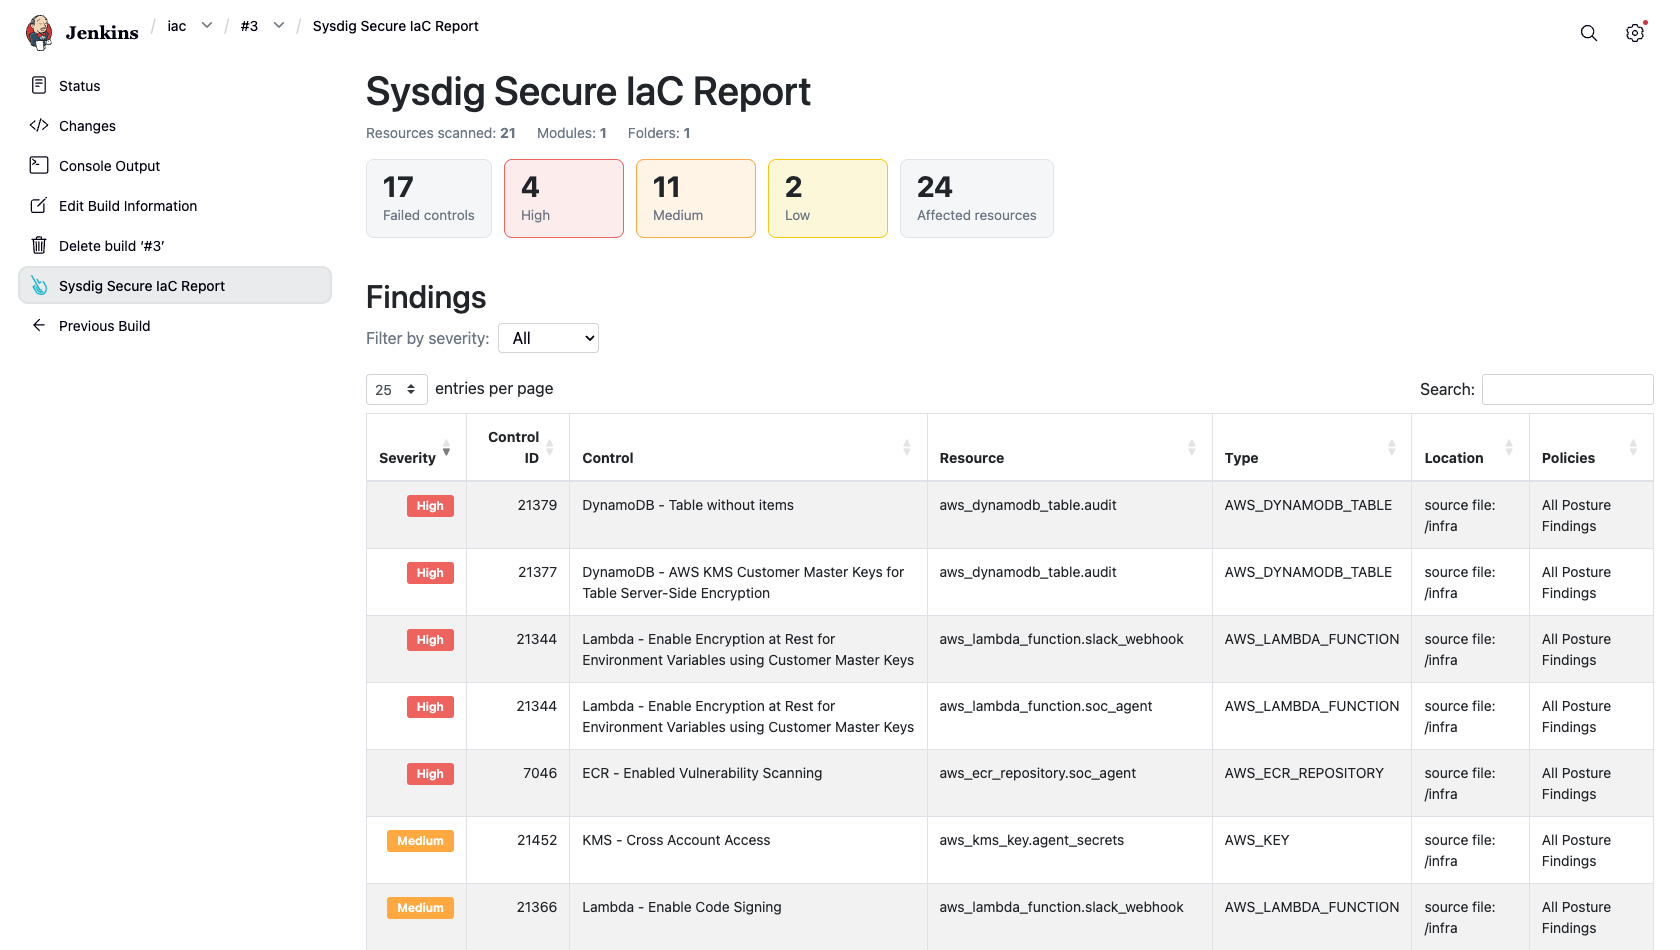
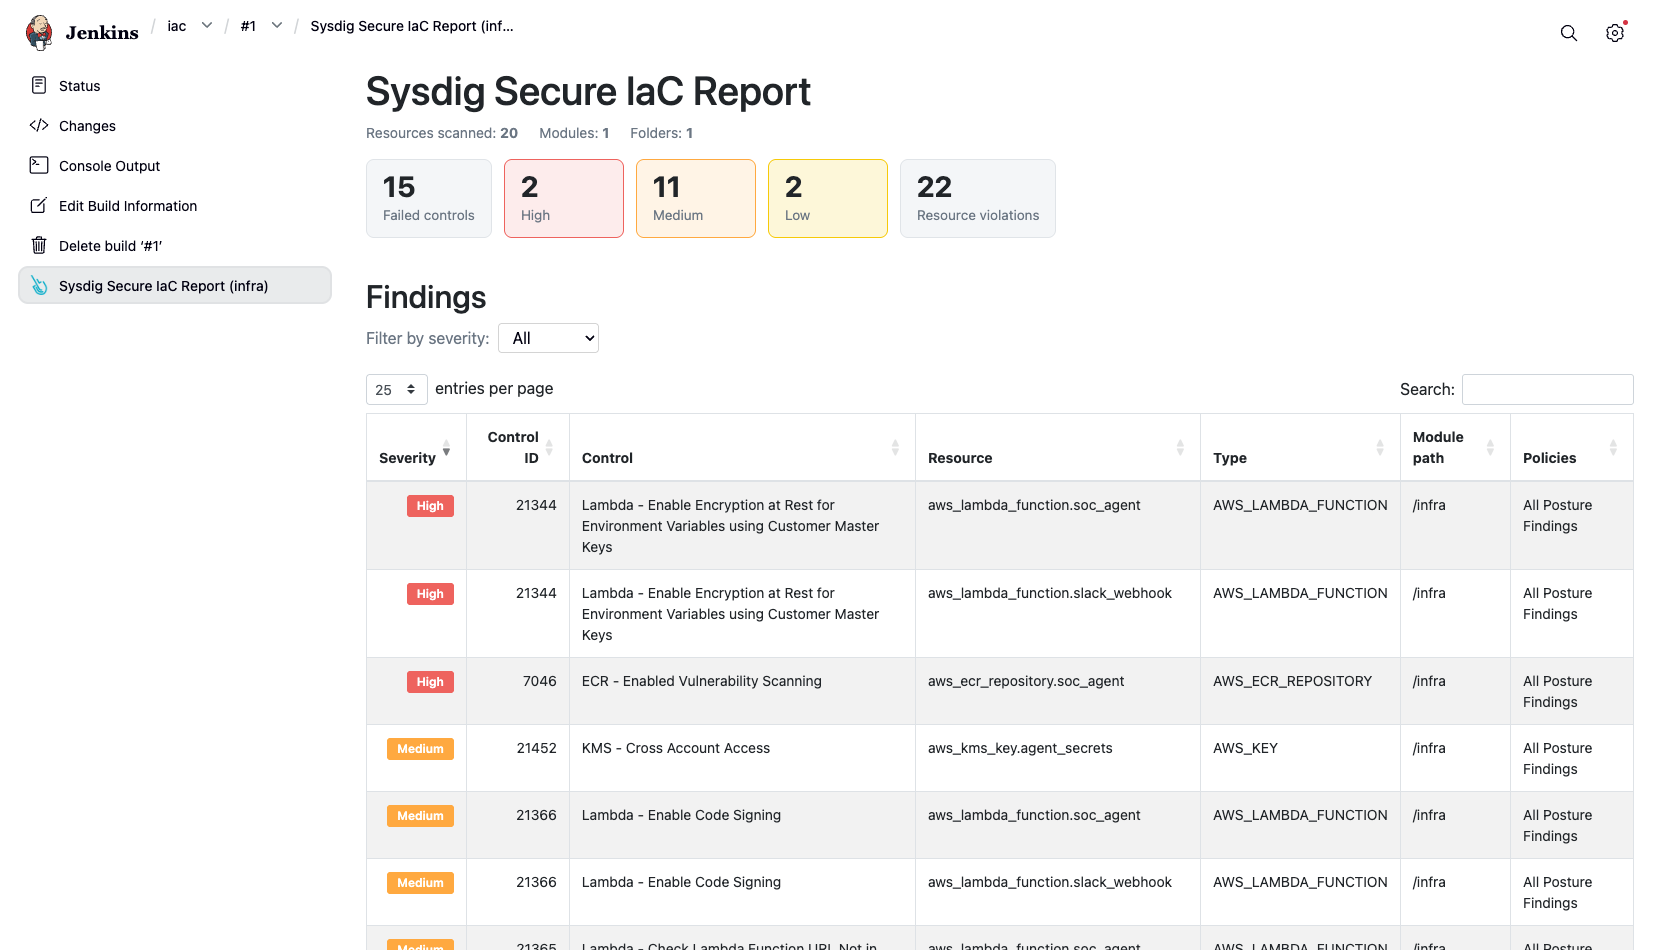
fix(iac): make the per-scan report numbering and cleanup hold under parallel steps
Picking the ordinal from the build's action list and adding the action were two
steps, and the action list gives no atomicity, so parallel pipeline branches
could both claim the same url name: 16 concurrent attaches produced 13 distinct
urls, i.e. reports that the build page could not reach, each advertising a
different scanned path. Both steps now happen under one lock, and the ordinal
comes from the highest one already attached rather than the list size.

Deleting the report file ran in a finally around the scan, so an unlucky delete
(dropped channel, read-only workspace) skipped the exit-code switch and turned a
clean scan into a failed build, or replaced the scan's own exception. Cleanup is
now best-effort and covers the whole step, including the credentials error that
threw between creating the file and launching the scanner and leaked one report
per build into a reused workspace.

The report also moves to the workspace's @tmp sibling so it is never part of the
tree being scanned and no scratch file is left in the checkout. Scanner 1.27.2
does ignore stray .json files while walking, verified against the real CLI, so
this is about keeping the workspace clean, not about fixing scan results.

README: the module path is relative to the scanned path (a resource at the top of
it reports scan root), which the previous wording got wrong, and the violations
tile is unrelated to the number of resources scanned. Screenshot regenerated for
the renamed tile and column.

diff --git a/src/test/java/com/sysdig/jenkins/plugins/sysdig/infrastructure/jenkins/iac/ui/IaCActionTest.java b/src/test/java/com/sysdig/jenkins/plugins/sysdig/infrastructure/jenkins/iac/ui/IaCActionTest.java
@@ -7,6 +7,9 @@ import com.sysdig.jenkins.plugins.sysdig.domain.iac.scanresult.Resource;
 import hudson.model.FreeStyleBuild;
 import hudson.model.FreeStyleProject;
 import hudson.util.XStream2;
+import java.util.concurrent.CountDownLatch;
+import java.util.concurrent.Executors;
+import java.util.concurrent.TimeUnit;
 import org.htmlunit.Page;
 import org.junit.jupiter.api.BeforeEach;
 import org.junit.jupiter.api.Test;
@@ -80,7 +83,7 @@ class IaCActionTest {
     void actionPageRendersTables() throws Exception {
         FreeStyleProject project = jenkins.createFreeStyleProject();
         FreeStyleBuild build = jenkins.buildAndAssertSuccess(project);
-        build.addAction(IaCAction.createFor(build, sampleJson(), "infra"));
+        IaCAction.attachTo(build, sampleJson(), "infra");
         build.save();
 
         JenkinsRule.WebClient wc = jenkins.createWebClient();
@@ -103,7 +106,7 @@ class IaCActionTest {
     void summaryTileAppearsOnBuildPage() throws Exception {
         FreeStyleProject project = jenkins.createFreeStyleProject();
         FreeStyleBuild build = jenkins.buildAndAssertSuccess(project);
-        build.addAction(IaCAction.createFor(build, sampleJson(), "infra"));
+        IaCAction.attachTo(build, sampleJson(), "infra");
         build.save();
 
         JenkinsRule.WebClient wc = jenkins.createWebClient();
@@ -125,8 +128,8 @@ class IaCActionTest {
         FreeStyleProject project = jenkins.createFreeStyleProject();
         FreeStyleBuild build = jenkins.buildAndAssertSuccess(project);
         // Same path on purpose: the url must stay unique even when two steps scan the same directory.
-        build.addAction(IaCAction.createFor(build, jsonWithFindingNamed("FIRST-SCAN-CONTROL"), "infra"));
-        build.addAction(IaCAction.createFor(build, jsonWithFindingNamed("SECOND-SCAN-CONTROL"), "infra"));
+        IaCAction.attachTo(build, jsonWithFindingNamed("FIRST-SCAN-CONTROL"), "infra");
+        IaCAction.attachTo(build, jsonWithFindingNamed("SECOND-SCAN-CONTROL"), "infra");
         build.save();
 
         var actions = build.getActions(IaCAction.class);
@@ -144,6 +147,46 @@ class IaCActionTest {
         assertTrue(first.contains("FIRST-SCAN-CONTROL"), "first report reachable");
         assertFalse(first.contains("SECOND-SCAN-CONTROL"), "first report is not the second one");
         assertTrue(second.contains("SECOND-SCAN-CONTROL"), "second report reachable");
+    }
+
+    /**
+     * Parallel pipeline branches attach their reports from different threads, and the build's action
+     * list gives no atomicity, so the ordinal has to be picked and used under a lock.
+     */
+    @Test
+    void concurrentAttachesStillGetDistinctUrls() throws Exception {
+        FreeStyleProject project = jenkins.createFreeStyleProject();
+        FreeStyleBuild build = jenkins.buildAndAssertSuccess(project);
+
+        int branches = 16;
+        var start = new CountDownLatch(1);
+        var done = new CountDownLatch(branches);
+        var pool = Executors.newFixedThreadPool(branches);
+        try {
+            for (int i = 0; i < branches; i++) {
+                String path = "infra-" + i;
+                pool.submit(() -> {
+                    try {
+                        start.await();
+                        IaCAction.attachTo(build, jsonWithFindingNamed("CONTROL"), path);
+                    } catch (InterruptedException e) {
+                        Thread.currentThread().interrupt();
+                    } finally {
+                        done.countDown();
+                    }
+                });
+            }
+            start.countDown();
+            assertTrue(done.await(30, TimeUnit.SECONDS), "all branches attached");
+        } finally {
+            pool.shutdownNow();
+        }
+
+        var urls = build.getActions(IaCAction.class).stream()
+                .map(IaCAction::getUrlName)
+                .collect(java.util.stream.Collectors.toSet());
+        assertEquals(branches, build.getActions(IaCAction.class).size());
+        assertEquals(branches, urls.size(), "every attached report needs its own url: " + urls);
     }
 
     @Test
@@ -190,7 +233,7 @@ class IaCActionTest {
     void findingsTableShowsLocationWithoutTheScannerPrefix() throws Exception {
         FreeStyleProject project = jenkins.createFreeStyleProject();
         FreeStyleBuild build = jenkins.buildAndAssertSuccess(project);
-        build.addAction(IaCAction.createFor(build, sampleJson(), "infra"));
+        IaCAction.attachTo(build, sampleJson(), "infra");
         build.save();
 
         JenkinsRule.WebClient wc = jenkins.createWebClient();

diff --git a/src/main/java/com/sysdig/jenkins/plugins/sysdig/infrastructure/jenkins/iac/entrypoint/IaCScanningBuilder.java b/src/main/java/com/sysdig/jenkins/plugins/sysdig/infrastructure/jenkins/iac/entrypoint/IaCScanningBuilder.java
@@ -36,6 +36,7 @@ import hudson.model.Result;
 import hudson.model.Run;
 import hudson.model.TaskListener;
 import hudson.security.ACL;
+import hudson.slaves.WorkspaceList;
 import hudson.tasks.BuildStepDescriptor;
 import hudson.tasks.Builder;
 import hudson.util.FormValidation;
@@ -176,21 +177,17 @@ public class IaCScanningBuilder extends Builder implements SimpleBuildStep {
         }
 
         logger.logInfo("Starting scan");
+        FilePath scanResultOutputFile = null;
         try {
             String exec = filePath.getRemote();
-            FilePath scanResultOutputFile = createScanResultOutputFile(workspace);
+            scanResultOutputFile = createScanResultOutputFile(workspace);
             SysdigIaCScanningProcessBuilder processBuilder = buildCommand(runContext, exec, scanResultOutputFile);
             logger.logDebug("Command to execute: " + String.join(" ", processBuilder.toCommandLineArguments()));
 
-            int exitCode;
-            try {
-                exitCode = processBuilder.launchAndWait(runContext.getLauncher());
-                logger.logInfo(String.format("Process finished with status %d", exitCode));
+            int exitCode = processBuilder.launchAndWait(runContext.getLauncher());
+            logger.logInfo(String.format("Process finished with status %d", exitCode));
 
-                reportAndAttachScanResult(run, logger, scanResultOutputFile);
-            } finally {
-                scanResultOutputFile.delete();
-            }
+            reportAndAttachScanResult(run, logger, scanResultOutputFile);
 
             switch (exitCode) {
                 case 0:
@@ -216,17 +213,49 @@ public class IaCScanningBuilder extends Builder implements SimpleBuildStep {
         } catch (Exception e) {
             logger.logError(String.format("Failed processing output: %s", e.getMessage()), e);
             run.setResult(Result.FAILURE);
+        } finally {
+            deleteQuietly(scanResultOutputFile, logger);
         }
         logger.logInfo("Process completed");
+    }
+
+    /**
+     * Drops the scan's report file once it has been read. Deleting is cleanup, never a reason to fail a
+     * build, and it must not shadow whatever the scan itself reported: the exit code stays the source
+     * of truth for pass/fail.
+     */
+    private static void deleteQuietly(FilePath scanResultOutputFile, SysdigLogger logger) {
+        if (scanResultOutputFile == null) {
+            return;
+        }
+        try {
+            scanResultOutputFile.delete();
+        } catch (InterruptedException e) {
+            Thread.currentThread().interrupt();
+        } catch (Exception e) {
+            logger.logWarn(String.format(
+                    "Could not delete the IaC scan report file %s: %s",
+                    scanResultOutputFile.getRemote(), e.getMessage()));
+        }
     }
 
     /**
      * Report file of a single scan. Every step gets its own file: the workspace is shared by all the
      * steps of a build, so a fixed name would let a scan that produced no report of its own read (and
      * attach) the report left behind by a previous scan, and would make parallel steps race for it.
+     *
+     * <p>It lives in the workspace's {@code @tmp} sibling directory rather than in the workspace itself,
+     * so the report of this run (or of a parallel one) is never part of the tree being scanned and a
+     * build leaves no scratch file behind in the checkout. Scanner 1.27.2 ignores stray {@code .json}
+     * files while walking, so this keeps the workspace clean rather than fixing a scan result.
      */
     static FilePath createScanResultOutputFile(FilePath workspace) throws IOException, InterruptedException {
-        return workspace.createTempFile("sysdig-iac-scan-result", ".json");
+        FilePath tempDir = WorkspaceList.tempDir(workspace);
+        if (tempDir == null) { // no parent to hang the sibling directory off, e.g. a filesystem root
+            tempDir = workspace;
+        }
+        tempDir.mkdirs();
+        return tempDir.createTempFile("sysdig-iac-scan-result", ".json");
     }
 
     /**
@@ -246,7 +275,7 @@ public class IaCScanningBuilder extends Builder implements SimpleBuildStep {
             if (scanResult.isEmpty()) return;
 
             logScanResultSummary(logger, scanResult.get());
-            run.addAction(IaCAction.createFor(run, json, path));
+            IaCAction.attachTo(run, json, path);
         } catch (Exception e) {
             logger.logWarn("Could not parse IaC scan result report: " + e.getMessage());
         }

diff --git a/src/test/java/com/sysdig/jenkins/plugins/sysdig/e2e/IaCScanE2EFreestyleTests.java b/src/test/java/com/sysdig/jenkins/plugins/sysdig/e2e/IaCScanE2EFreestyleTests.java
@@ -1,6 +1,13 @@
 package com.sysdig.jenkins.plugins.sysdig.e2e;
 
+import static org.junit.jupiter.api.Assertions.assertEquals;
+import static org.junit.jupiter.api.Assertions.assertNotNull;
+
+import hudson.FilePath;
 import hudson.model.Result;
+import hudson.slaves.WorkspaceList;
+import java.util.Arrays;
+import java.util.List;
 import org.junit.jupiter.api.BeforeEach;
 import org.junit.jupiter.api.Test;
 import org.jvnet.hudson.test.JenkinsRule;
@@ -63,6 +70,48 @@ class IaCScanE2EFreestyleTests {
         jenkins.assertLogContains("--recursive --severity-threshold=high", build);
         jenkins.assertLogContains("Process finished with status 3", build);
         jenkins.assertLogContains("(status 401):", build);
+    }
+
+    /**
+     * The report file is created before the credentials are resolved, so the step must clean it up on
+     * every exit path. Random names make a leak accumulate across builds instead of being overwritten,
+     * and the report must never land inside the scanned workspace.
+     */
+    @Test
+    void testTheReportFileLeavesNothingBehindWhenCredentialsAreMissing() throws Exception {
+        var project = helpers.createFreestyleProjectWithIaCScanBuilder().build();
+
+        jenkins.buildAndAssertStatus(Result.FAILURE, project);
+
+        var workspace = project.getSomeWorkspace();
+        assertNotNull(workspace);
+        assertEquals(List.of(), reportFilesIn(workspace), "workspace");
+        assertEquals(List.of(), reportFilesIn(WorkspaceList.tempDir(workspace)), "workspace @tmp");
+    }
+
+    @Test
+    void testTheReportFileIsWrittenOutsideTheScannedWorkspaceAndDeleted() throws Exception {
+        var project = helpers.createFreestyleProjectWithIaCScanBuilder()
+                .withConfig(b -> b.setEngineCredentialsId("sysdig-secure"))
+                .build();
+
+        var build = jenkins.buildAndAssertStatus(Result.FAILURE, project);
+
+        var workspace = project.getSomeWorkspace();
+        assertNotNull(workspace);
+        jenkins.assertLogContains(
+                "--output-json=" + WorkspaceList.tempDir(workspace).getRemote(), build);
+        assertEquals(List.of(), reportFilesIn(workspace), "workspace");
+        assertEquals(List.of(), reportFilesIn(WorkspaceList.tempDir(workspace)), "workspace @tmp");
+    }
+
+    private static List<String> reportFilesIn(FilePath directory) throws Exception {
+        if (directory == null || !directory.exists()) {
+            return List.of();
+        }
+        return Arrays.stream(directory.list("sysdig-iac-scan-result*"))
+                .map(FilePath::getName)
+                .toList();
     }
 
     @Test

diff --git a/src/main/java/com/sysdig/jenkins/plugins/sysdig/infrastructure/jenkins/iac/ui/IaCAction.java b/src/main/java/com/sysdig/jenkins/plugins/sysdig/infrastructure/jenkins/iac/ui/IaCAction.java
@@ -43,6 +43,8 @@ public class IaCAction implements Action {
     private static final String BASE_DISPLAY_NAME = "Sysdig Secure IaC Report";
     /** The scanner reports a resource's module as {@code "source file: <path>"}. */
     private static final String SCANNER_LOCATION_PREFIX = "source file:";
+    /** Guards the ordinal-then-attach sequence in {@link #attachTo}. */
+    private static final Object ATTACH_LOCK = new Object();
 
     private final Run<?, ?> build;
     private final String rawScanResultJson;
@@ -64,15 +66,24 @@ public class IaCAction implements Action {
     }
 
     /**
-     * Builds an action whose url name does not clash with the IaC reports already attached to the
-     * build, so every step of a multi-scan build stays reachable from the build page.
+     * Attaches a report whose url name does not clash with the IaC reports already on the build, so
+     * every step of a multi-scan build stays reachable from the build page.
+     *
+     * <p>{@link hudson.model.Actionable} does not synchronize its action list, so picking the ordinal
+     * and adding the action have to happen as one atomic step: parallel branches of a pipeline run
+     * their steps on different threads and would otherwise both read the same list size and publish
+     * the same url name.
      */
-    public static IaCAction createFor(Run<?, ?> build, String rawScanResultJson, String scannedPath) {
-        return new IaCAction(
-                build,
-                rawScanResultJson,
-                scannedPath,
-                build.getActions(IaCAction.class).size() + 1);
+    public static IaCAction attachTo(Run<?, ?> build, String rawScanResultJson, String scannedPath) {
+        synchronized (ATTACH_LOCK) {
+            int ordinal = 1;
+            for (IaCAction attached : build.getActions(IaCAction.class)) {
+                ordinal = Math.max(ordinal, attached.ordinal + 1);
+            }
+            IaCAction action = new IaCAction(build, rawScanResultJson, scannedPath, ordinal);
+            build.addAction(action);
+            return action;
+        }
     }
 
     public Run<?, ?> getBuild() {

diff --git a/src/test/java/com/sysdig/jenkins/plugins/sysdig/infrastructure/jenkins/iac/entrypoint/IaCScanningBuilderTest.java b/src/test/java/com/sysdig/jenkins/plugins/sysdig/infrastructure/jenkins/iac/entrypoint/IaCScanningBuilderTest.java
@@ -9,6 +9,7 @@ import com.sysdig.jenkins.plugins.sysdig.infrastructure.jenkins.iac.ui.IaCAction
 import hudson.FilePath;
 import hudson.model.FreeStyleBuild;
 import hudson.model.FreeStyleProject;
+import hudson.slaves.WorkspaceList;
 import java.nio.file.Path;
 import org.junit.jupiter.api.BeforeEach;
 import org.junit.jupiter.api.Test;
@@ -41,16 +42,23 @@ class IaCScanningBuilderTest {
     /**
      * Two IaC steps share the workspace, so a fixed report name lets one scan read the previous
      * scan's report when its own run produced none (bad params, killed scanner, parallel stages).
+     * The report also has to stay out of the workspace: with the default path the scanner walks the
+     * workspace itself and would run into the report of its own (or of a parallel) run.
      */
     @Test
-    void eachScanGetsItsOwnReportFile() throws Exception {
+    void eachScanGetsItsOwnReportFileOutsideTheWorkspace() throws Exception {
         FilePath first = IaCScanningBuilder.createScanResultOutputFile(workspace());
         FilePath second = IaCScanningBuilder.createScanResultOutputFile(workspace());
 
         assertNotEquals(first.getRemote(), second.getRemote());
-        assertEquals(workspace().getRemote(), first.getParent().getRemote());
         assertTrue(first.getName().startsWith("sysdig-iac-scan-result"), first.getName());
         assertTrue(first.getName().endsWith(".json"), first.getName());
+
+        assertEquals(
+                WorkspaceList.tempDir(workspace()).getRemote(),
+                first.getParent().getRemote(),
+                "the report belongs in the workspace's @tmp sibling");
+        assertEquals(0, workspace().list().size(), "nothing written inside the scanned workspace");
     }
 
     @Test

diff --git a/README.md b/README.md
@@ -353,12 +353,15 @@ or an invalid token fail the build.
 
 Each build with an IaC scan gets a **Sysdig Secure IaC Report** page with a per-severity summary, the failed
 controls (filterable and sortable by severity), and the unsupported resources and parse errors reported by the
-scanner. The **Resource violations** tile counts control/resource pairs (one per row of the findings table), so
-it is usually higher than the number of distinct resources scanned. The **Module path** column is the module or
-folder the resource was declared in, relative to the scanned path; resources declared at the top of the scanned
-path show up as `scan root`.
+scanner. The **Resource violations** tile counts control/resource pairs, one per row of the findings table, so a
+resource that fails three controls counts three times; it is unrelated to the number of resources scanned. The
+**Module path** column is the module, folder or file the scanner attributes the resource to, as reported relative
+to the scanned path: a resource declared at the top of the scanned path shows up as `scan root`, and anything
+deeper shows its path within the scan (for example `/infra`).
 
-A build that runs several IaC steps gets one report page per step, each named after the path it scanned.
+A build that runs several IaC steps gets one report page per step, each named after the path it scanned. The
+scanner's JSON report is written next to the workspace (in the `@tmp` directory) and removed once it has been read,
+so it neither pollutes the scanned tree nor survives the build; enable debug logging to dump it into the console.
 
 <img src="docs/images/IaCScanResults.png" height="500px" />
 
